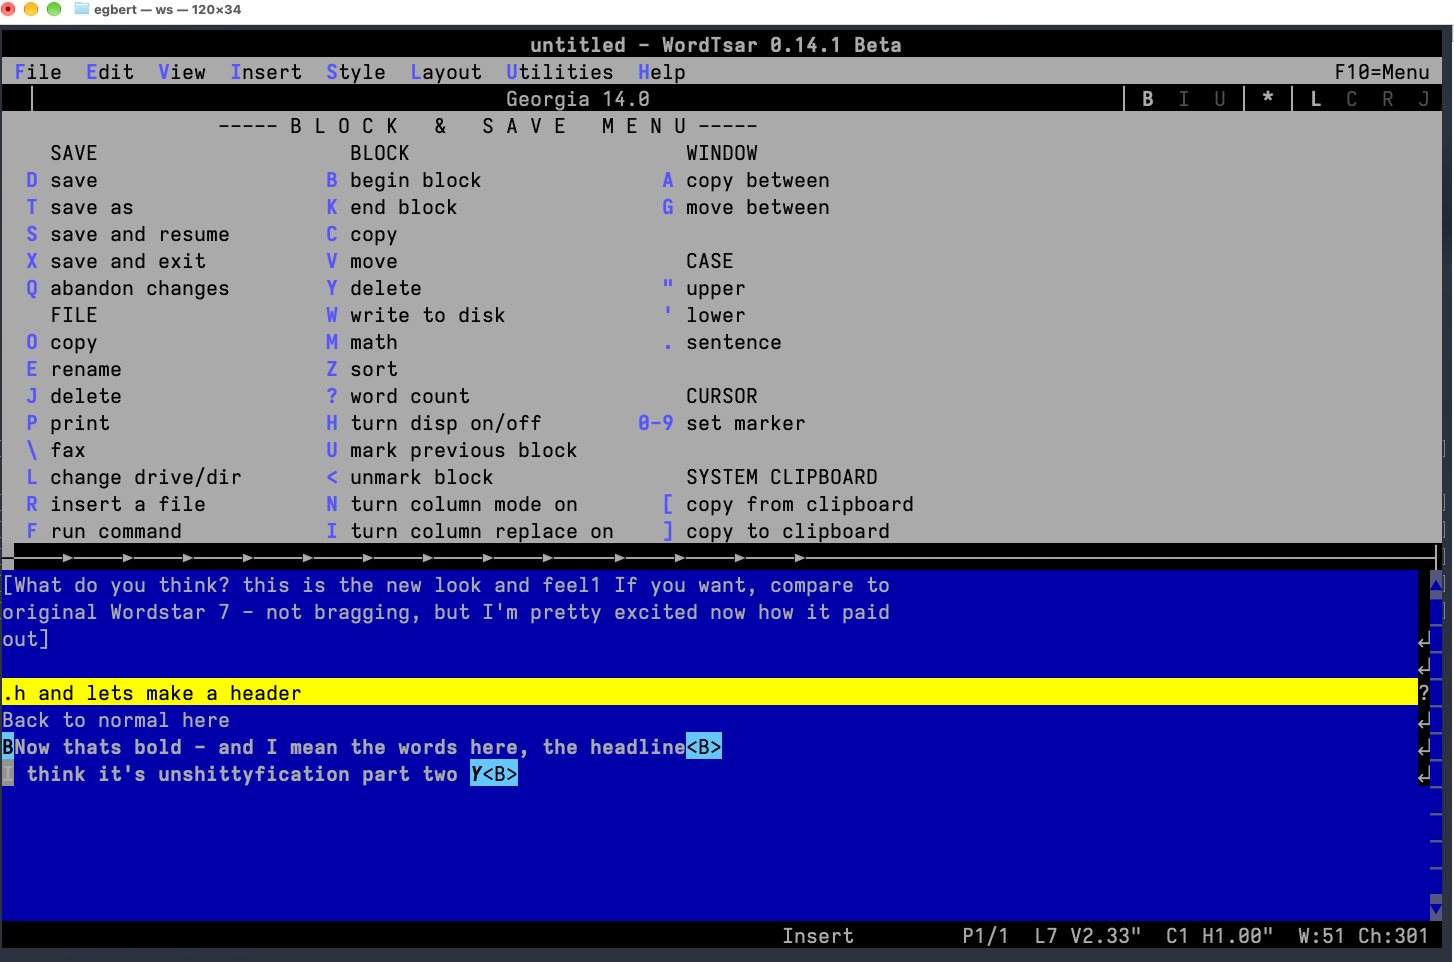
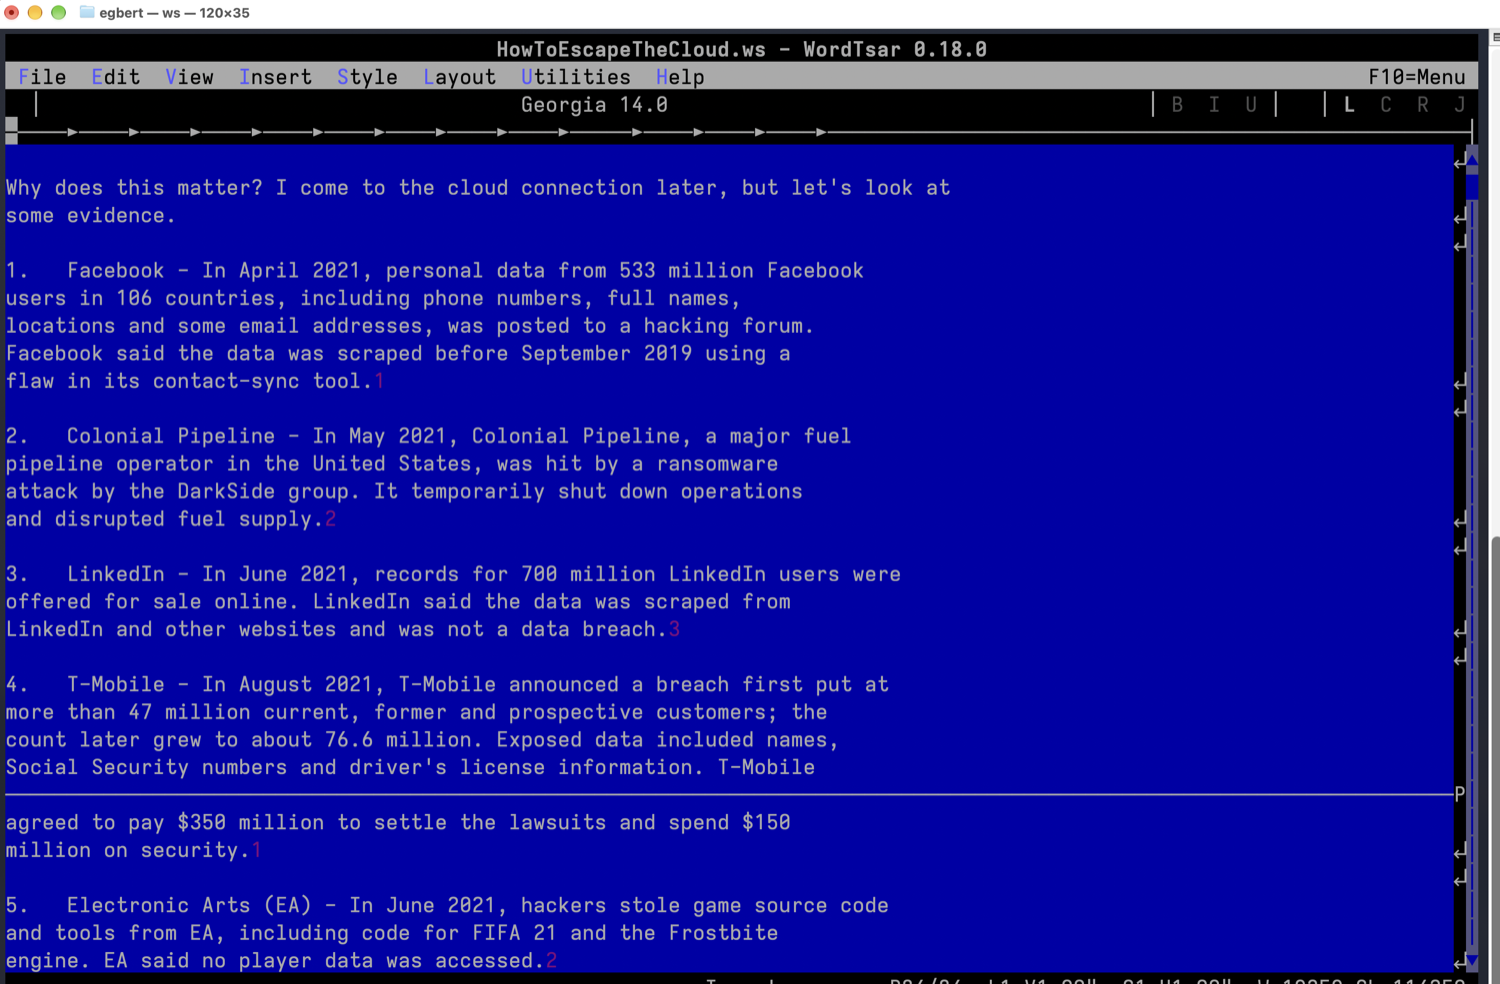
Replace the outdated screenshots on the site and in the README (#106)

diff --git a/docs/index.html b/docs/index.html
@@ -14,8 +14,8 @@ layout: default
           <p class="fine">Free and open source under the AGPL-3.0. Still Beta, and in daily use by its maintainer. <span data-version hidden></span></p>
         </div>
         <figure class="shot">
-          <img src="screenshots/ws-look-block-menu.png" width="1454" height="962" alt="WordTsar in a terminal window, styled like WordStar 7: a grey Block and Save menu listing commands such as save, copy and move, above blue text with a highlighted dot command.">
-          <figcaption>The terminal version in the WordStar 7 look. <kbd>^K</kbd> opens the Block &amp; Save menu.</figcaption>
+          <img src="screenshots/ws-look-block-menu.png" width="1500" height="984" alt="WordTsar in a Terminal window in the WordStar 7 colours: a grey menu bar above a blue document area with a numbered list, footnote reference numbers and a page break line.">
+          <figcaption>The terminal version in the WordStar 7 look, with footnote numbers in the text and a line at the page break.</figcaption>
         </figure>
       </div>
     </section>
@@ -28,17 +28,17 @@ layout: default
         </div>
         <div class="pair">
           <figure class="shot">
-            <img src="screenshots/WordTsar-gui.png" width="1074" height="939" loading="lazy" alt="WordTsar as a Mac app: a window with the WordStar command panel, a ruler, and a document underneath.">
+            <img src="screenshots/WordTsar-gui.png" width="1500" height="1209" loading="lazy" alt="WordTsar as a Mac app: the WordStar command panel and ruler behind the System Preferences dialog, whose General tab sets the default, footnote and endnote fonts and sizes.">
             <figcaption>
               <h3>WordTsar.app</h3>
-              <p>The Mac app. Mac shortcuts such as <kbd>⌘,</kbd> for Preferences work alongside the WordStar keys.</p>
+              <p>The Mac app. Mac shortcuts such as <kbd>⌘,</kbd> for Preferences work alongside the WordStar keys. Shown with System Preferences open.</p>
             </figcaption>
           </figure>
           <figure class="shot">
-            <img src="screenshots/ws-look-edit-menu.png" width="1453" height="924" loading="lazy" alt="WordTsar in a terminal window with the WordStar 7 Edit menu: cursor, scroll and delete commands listed above a blue document area.">
+            <img src="screenshots/ws-look-edit-menu.png" width="1500" height="570" loading="lazy" alt="WordTsar in a terminal window in the WordStar 7 colours, with the System Preferences dialog over the document. Its General tab sets the default, footnote and endnote fonts and sizes.">
             <figcaption>
               <h3>ws</h3>
-              <p>The terminal version, for writing with no window chrome at all. Pick the WordStar 7 colours under System Preferences.</p>
+              <p>The terminal version, for writing with no window chrome at all. Pick the WordStar 7 colours under System Preferences, shown here.</p>
             </figcaption>
           </figure>
         </div>

diff --git a/README.md b/README.md
@@ -44,20 +44,20 @@ TUI (terminal-based version):
 
 <table>
   <tr>
-    <td width="33%"><img src="docs/screenshots/ws-look-block-menu.png" width="100%" alt="Block and Save menu in the WordStar 7 look"></td>
-    <td width="33%"><img src="docs/screenshots/ws-look-edit-menu.png" width="100%" alt="Edit menu in the WordStar 7 look"></td>
+    <td width="33%"><img src="docs/screenshots/ws-look-block-menu.png" width="100%" alt="A document with footnote numbers and a page break line in the WordStar 7 look"></td>
+    <td width="33%"><img src="docs/screenshots/ws-look-edit-menu.png" width="100%" alt="System Preferences in the WordStar 7 look"></td>
     <td width="33%"><img src="docs/screenshots/ws-look-utilities-menu.png" width="100%" alt="Utilities menu in the WordStar 7 look"></td>
   </tr>
   <tr>
-    <td align="center"><sub>Block &amp; Save menu</sub></td>
-    <td align="center"><sub>Edit menu</sub></td>
+    <td align="center"><sub>Footnotes and page break</sub></td>
+    <td align="center"><sub>System Preferences</sub></td>
     <td align="center"><sub>Utilities menu</sub></td>
   </tr>
 </table>
 
 GUI (macOS app version):
 
-![WordTsar running as a macOS app](docs/screenshots/WordTsar-gui.png)
+![WordTsar running as a macOS app, with System Preferences open](docs/screenshots/WordTsar-gui.png)
 
 You get the best of both worlds: the classic terminal view, or the macOS GUI — install whichever you prefer, or both. Distraction-free writing, no bloat, one keystroke away.
 And, **WordTsar** has simplicity. A quality people miss in our pressured time!
